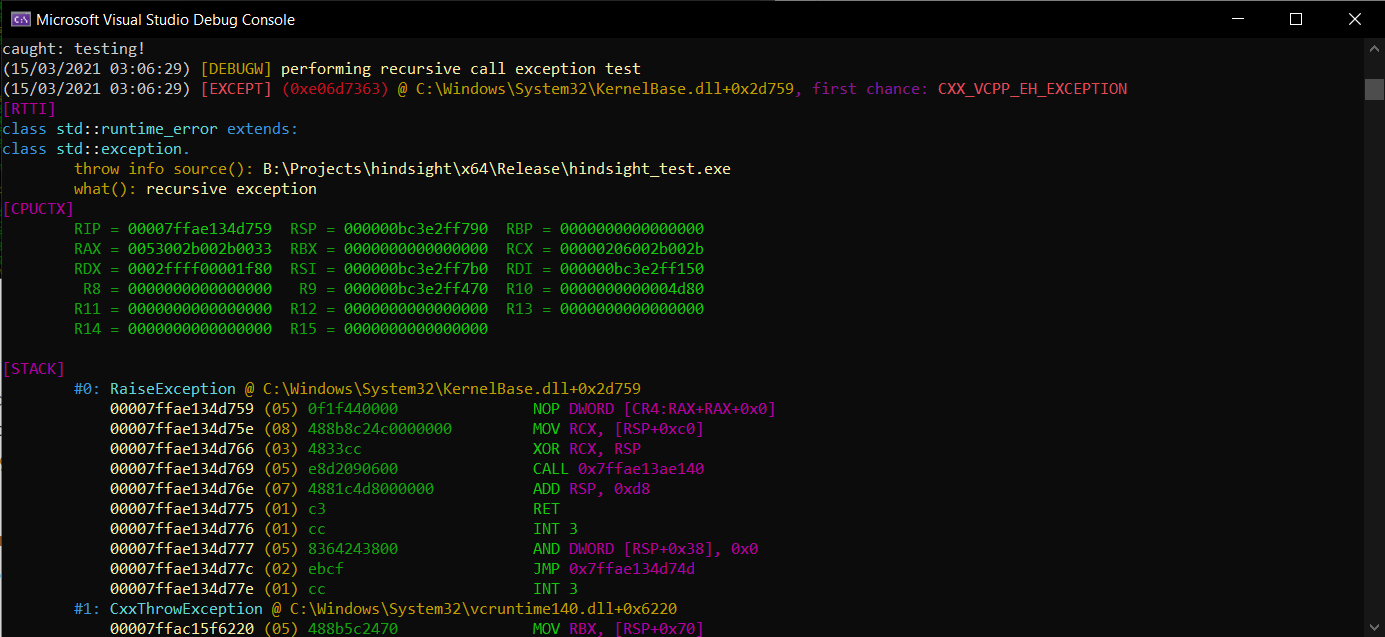
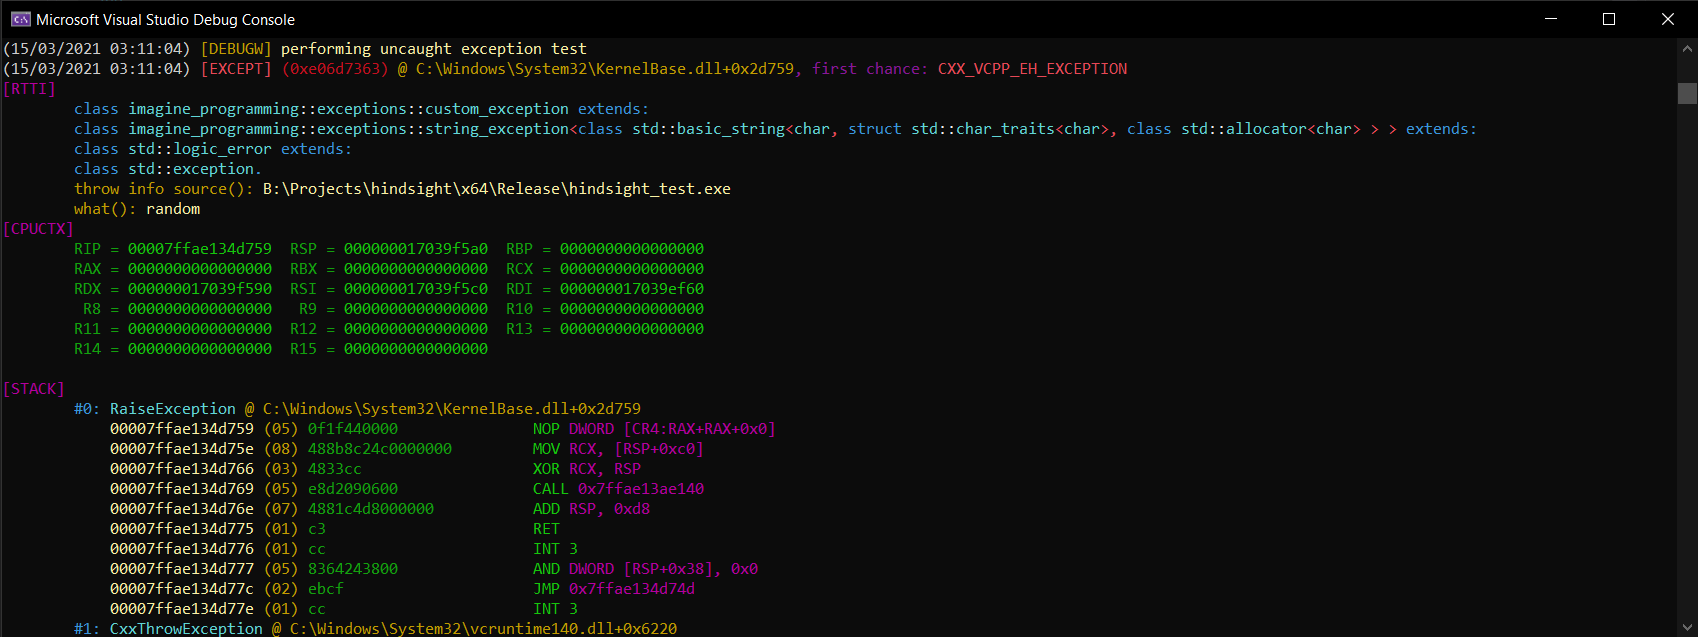
hindsight 0.6.1.0 - immediate revision to indent the class names of the RTTI print.

Changed region(s): [[0.0, 0.0, 0.8693, 1.0], [0.9625, 0.1193, 1.0, 0.179], [0.9314, 0.0, 0.9935, 0.0298]]

diff --git a/hindsight/PrintingDebuggerEventHandler.cpp b/hindsight/PrintingDebuggerEventHandler.cpp
@@ -784,6 +784,7 @@ void PrintingDebuggerEventHandler::PrintContext(std::shared_ptr<const DebugConte
 /// <param name="classSignature">The class signature.</param>
 /// <param name="extends">True when this class extends a following class.</param>
 void PrintingDebuggerEventHandler::PrintClass(const std::string& classSignature, bool extends) const {
+	m_Stream << "\t";
 	for (size_t i = 0, l = classSignature.size(); i < l;) {
 		if (classSignature.substr(i, 6) == "class ") { // '[class ]a::b::c<char>::d'
 			rang_color(rang::fg::cyan) << "class ";

diff --git a/hindsight/Version.hpp b/hindsight/Version.hpp
@@ -40,7 +40,7 @@ examples:
 
 	#define hindsight_version_major			0
 	#define hindsight_version_minor			6
-	#define hindsight_version_revision		0
+	#define hindsight_version_revision		1
 	#define hindsight_version_build			0
 	#define hindsight_version_year_s		"2021"
 	#define hindsight_version_appendix		"alpha"
